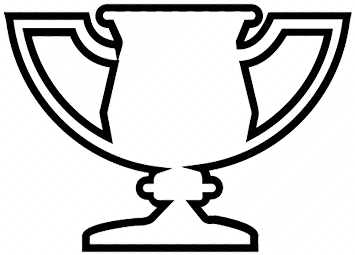
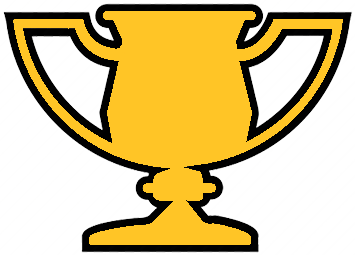
updating scoreboard

diff --git a/app/js/prefabs/scoreboard.js b/app/js/prefabs/scoreboard.js
@@ -15,14 +15,18 @@ var Scoreboard = function(game, parent) {
     // Total score
     this.totalScore = "1000";
     this.totalScoreText = this.game.add.text(this.game.width-100, 10, this.totalScore, style);
-    //this.totalSCoreImg
+    this.totalSCoreImg = this.game.add.sprite(this.game.width-45, 7, 'cup');
+    console.log(this.totalSCoreImg.width)
+    console.log(this.totalSCoreImg.height)
+    this.totalSCoreImg.width = this.totalSCoreImg.width - 320;
+    this.totalSCoreImg.height = this.totalSCoreImg.height - 230;
     this.totalScoreGroup.add(this.totalScoreText);
-    //this.totalScoreGroup.add(this.totalSCoreImg);
+    this.totalScoreGroup.add(this.totalSCoreImg);
 
     // Condom score
     this.condomScore = "1000";
     this.condomScoreText = this.game.add.text(this.game.width-100, 50, this.condomScore, style);
-    this.condomScoreImg = new Condom(this.game, this.game.width-30, 60, 1);
+    this.condomScoreImg = this.game.add.sprite(this.game.width-50, 45, 'condom');
     this.condomScoreImg.width = this.condomScoreImg.width - 30;
     this.condomScoreImg.height = this.condomScoreImg.height - 30;
     this.condomScoreGroup.add(this.condomScoreText);
@@ -31,7 +35,7 @@ var Scoreboard = function(game, parent) {
     // Virus score
     this.virusScore = "1000";
     this.virusScoreText = this.game.add.text(this.game.width-100, 90, this.virusScore, style)
-    this.virusScoreImg = new Virus(this.game, this.game.width-30, 100, 1);
+    this.virusScoreImg = this.game.add.sprite(this.game.width-40, 83, 'virus');
     this.virusScoreImg.width = this.virusScoreImg.width - 10;
     this.virusScoreImg.height = this.virusScoreImg.height - 10;
     this.virusScoreGroup.add(this.virusScoreText);
@@ -73,6 +77,10 @@ var Scoreboard = function(game, parent) {
 
 Scoreboard.prototype = Object.create(Phaser.Group.prototype);
 Scoreboard.prototype.constructor = Scoreboard;
+
+Scoreboard.prototype.updateCondomScore = function () {
+    this.virusScoreText
+};
 
 Scoreboard.prototype.show = function(score) {
     //this.scoreText.setText(score.toString());

diff --git a/app/js/states/preload.js b/app/js/states/preload.js
@@ -25,6 +25,7 @@ BasicGame.Preloader.prototype = {
 
         this.load.spritesheet('player', 'app/assets/img/ride_anim.png', 76,60,3);
         this.load.image('condom', 'app/assets/img/condom.png');
+        this.load.image('cup', 'app/assets/img/cup.png');
         this.load.spritesheet('virus', 'app/assets/img/virus.png', 43,43,1);
         this.load.spritesheet('truthometer', 'app/assets/img/truth-o-meter.png', 100,228,1);
         this.load.image('startButton', 'app/assets/img/start-button.png');
